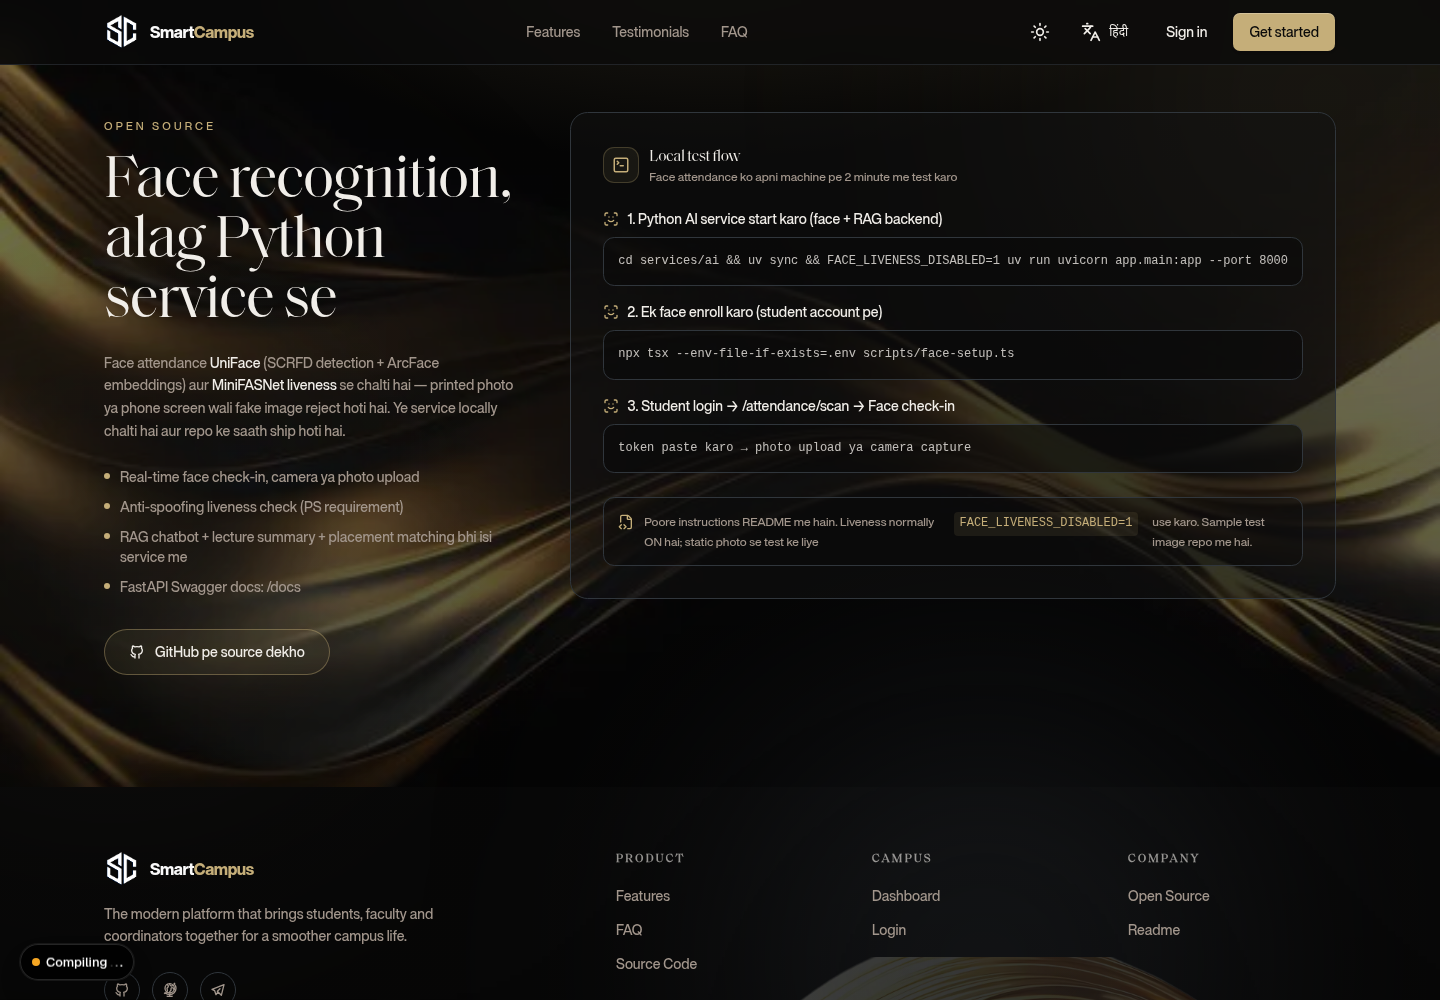
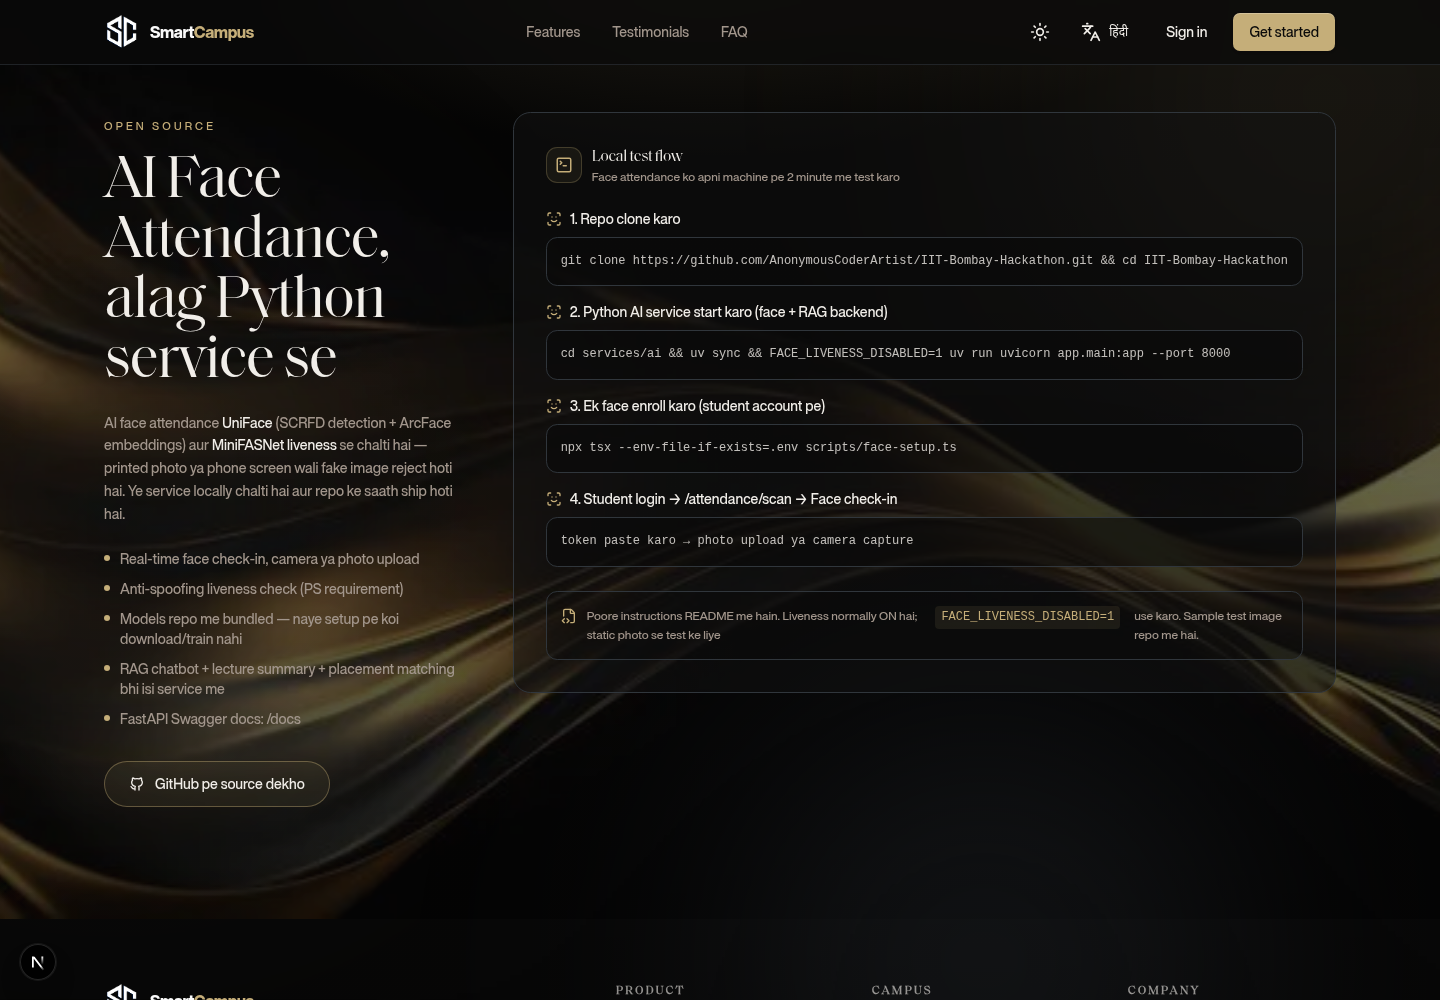
landing pe AI face attendance section me clone step add kiya, heading update ki

diff --git a/src/components/landing/open-source.tsx b/src/components/landing/open-source.tsx
@@ -6,9 +6,10 @@ import GithubIcon from "@/components/ui/github-icon";
 import { ScanFace, FileCode2, TerminalSquare } from "lucide-react";
 
 const commands = [
-  { label: "1. Python AI service start karo (face + RAG backend)", cmd: "cd services/ai && uv sync && FACE_LIVENESS_DISABLED=1 uv run uvicorn app.main:app --port 8000" },
-  { label: "2. Ek face enroll karo (student account pe)", cmd: "npx tsx --env-file-if-exists=.env scripts/face-setup.ts" },
-  { label: "3. Student login → /attendance/scan → Face check-in", cmd: "token paste karo → photo upload ya camera capture" },
+  { label: "1. Repo clone karo", cmd: "git clone https://github.com/AnonymousCoderArtist/IIT-Bombay-Hackathon.git && cd IIT-Bombay-Hackathon" },
+  { label: "2. Python AI service start karo (face + RAG backend)", cmd: "cd services/ai && uv sync && FACE_LIVENESS_DISABLED=1 uv run uvicorn app.main:app --port 8000" },
+  { label: "3. Ek face enroll karo (student account pe)", cmd: "npx tsx --env-file-if-exists=.env scripts/face-setup.ts" },
+  { label: "4. Student login → /attendance/scan → Face check-in", cmd: "token paste karo → photo upload ya camera capture" },
 ];
 
 export function OpenSource() {
@@ -33,10 +34,10 @@ export function OpenSource() {
               Open Source
             </span>
             <h2 className="mt-4 font-serif text-5xl tracking-tight text-balance sm:text-6xl">
-              Face recognition, alag Python service se
+              AI Face Attendance, alag Python service se
             </h2>
             <p className="mt-5 max-w-md text-sm leading-relaxed text-muted-foreground">
-              Face attendance <span className="text-foreground">UniFace</span> (SCRFD detection +
+              AI face attendance <span className="text-foreground">UniFace</span> (SCRFD detection +
               ArcFace embeddings) aur <span className="text-foreground">MiniFASNet liveness</span> se
               chalti hai — printed photo ya phone screen wali fake image reject hoti hai. Ye service
               locally chalti hai aur repo ke saath ship hoti hai.
